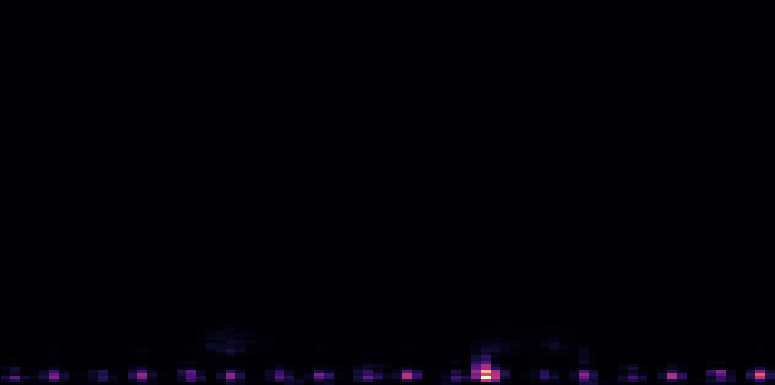
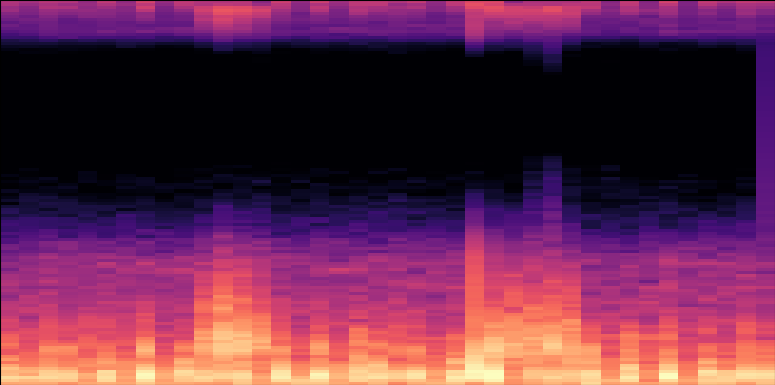
테스트

diff --git a/data_process/main.py b/data_process/main.py
@@ -8,10 +8,10 @@ import wav_to_image as wti
 
 data_folder_path = '../../data_1107/'
 dataset = d.SoundData(data_folder_path)
-resample_rate = 8000
+resample_rate = 24000
 dataset.resample_rate = resample_rate
 
-second = 5
+second = 10
 dataset.max_second = second
 
 for idx, data in enumerate(dataset):
@@ -19,12 +19,18 @@ for idx, data in enumerate(dataset):
     sig = data['waveform']
 
     # STFT -> spectrogram
-    hop_length = 512  # 전체 frame 수
+    # number of samples between successive frames. See librosa.core.stft
+    frame_length = 0.064
+    frame_stride = 0.025
+    input_nfft = int(round(resample_rate * frame_length))
+    input_stride = int(round(resample_rate * frame_stride))
+    print(input_stride, input_nfft)
+    hop_length = 1024
     # display spectrogram
     plt.figure(figsize=(10, 5))
-    mel = librosa.feature.melspectrogram(y=sig, sr=resample_rate)
-    librosa.display.specshow(mel, sr=resample_rate, hop_length=hop_length)
-    plt.savefig(f'spec_{resample_rate}_{second}/{file_name}.png', bbox_inches="tight", pad_inches=0)
+    mel = librosa.feature.melspectrogram(y=sig, sr=resample_rate, n_fft=input_nfft, hop_length=input_stride)
+    librosa.display.specshow(librosa.power_to_db(mel, ref=np.max), sr=resample_rate, hop_length=input_stride, y_axis='mel',)
+    plt.savefig(f'spec_{resample_rate}_{second}/{file_name}_3.png')
     plt.plot()
     plt.close()
     if idx == 4:

diff --git a/data_process/dataset.py b/data_process/dataset.py
@@ -41,10 +41,11 @@ class SoundData(Dataset):
     def low_pass_filter(self, waveform):
         # nyq = 0.5 * self.sample_rate
         # cut_off = self.cut_off / nyq
-        # b, a = signal.butter(5, cut_off, btype='low', fs=self.sample_rate)
+        # b, a = signal.butter(2, cut_off, btype='low', fs=self.sample_rate)
+        # return signal.filtfilt(b, a, waveform)
 
         waveform = torch.from_numpy(waveform)
-        lowpass_waveform = torchaudio.functional.lowpass_biquad(waveform, self.sample_rate, cutoff_freq=self.cut_off)
+        lowpass_waveform = torchaudio.functional.lowpass_biquad(waveform, self.sample_rate, cutoff_freq=self.cut_off, Q=1)
         lowpass_waveform = lowpass_waveform.numpy()
         return lowpass_waveform
 
